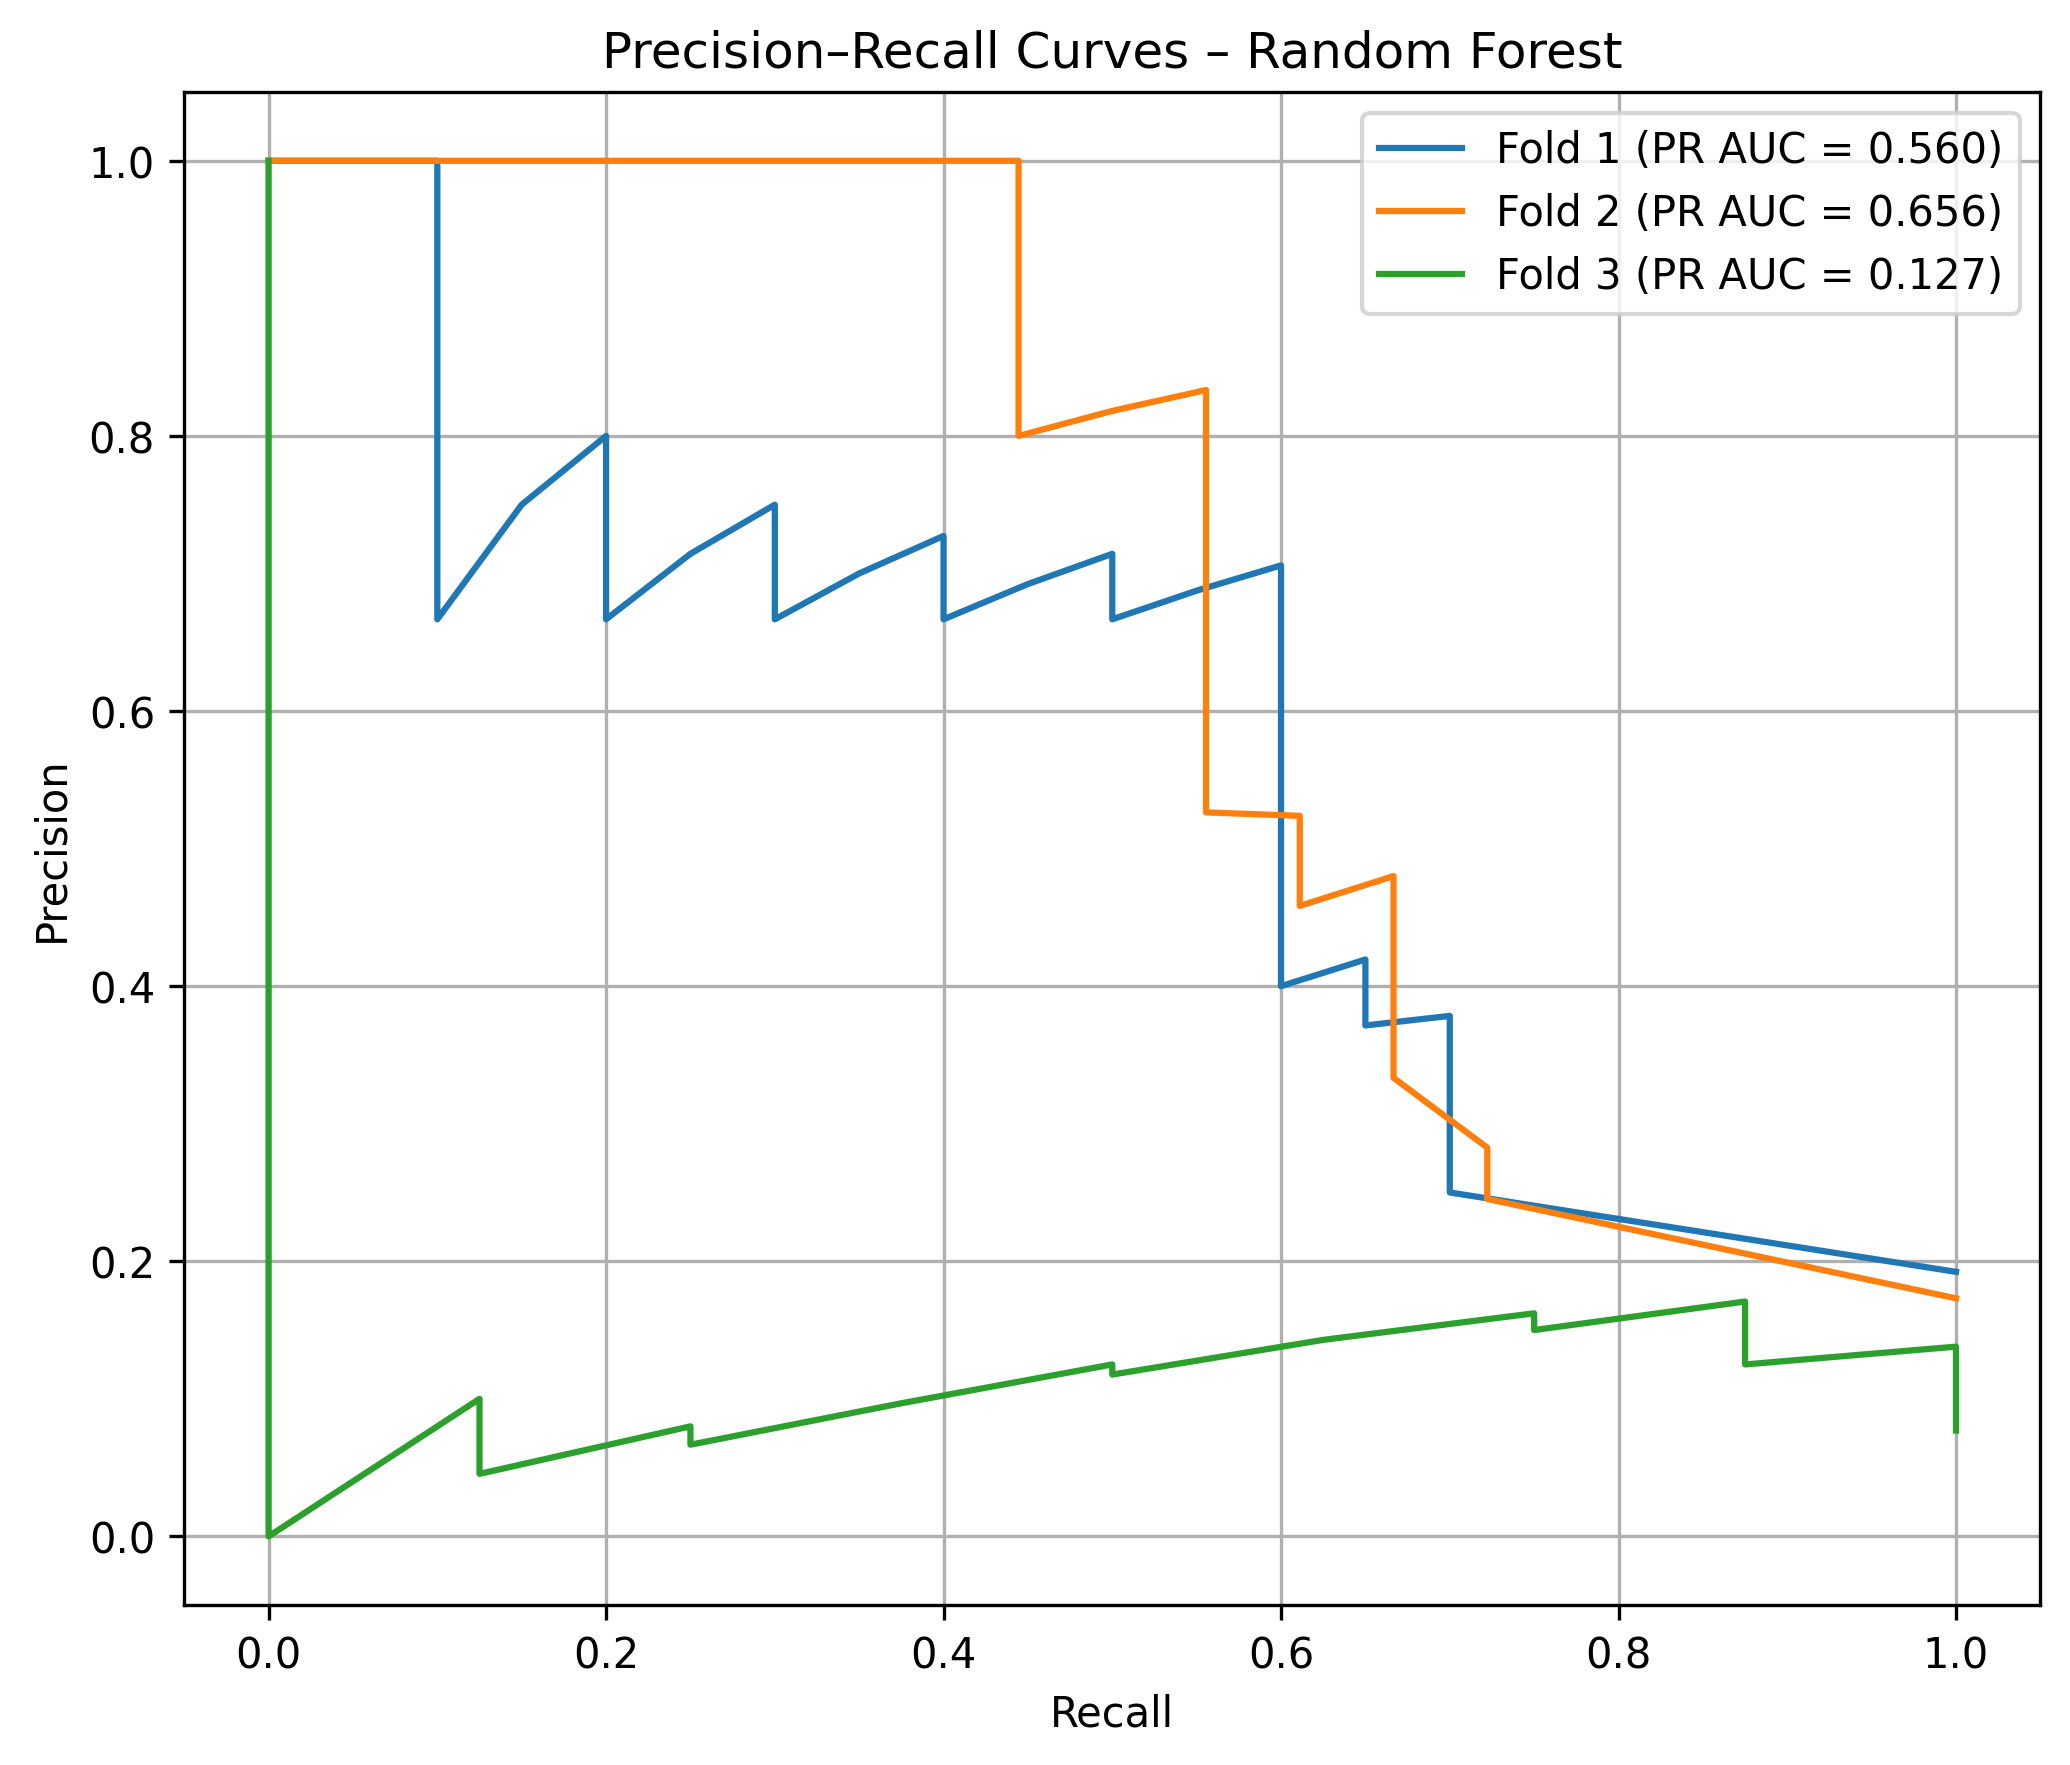
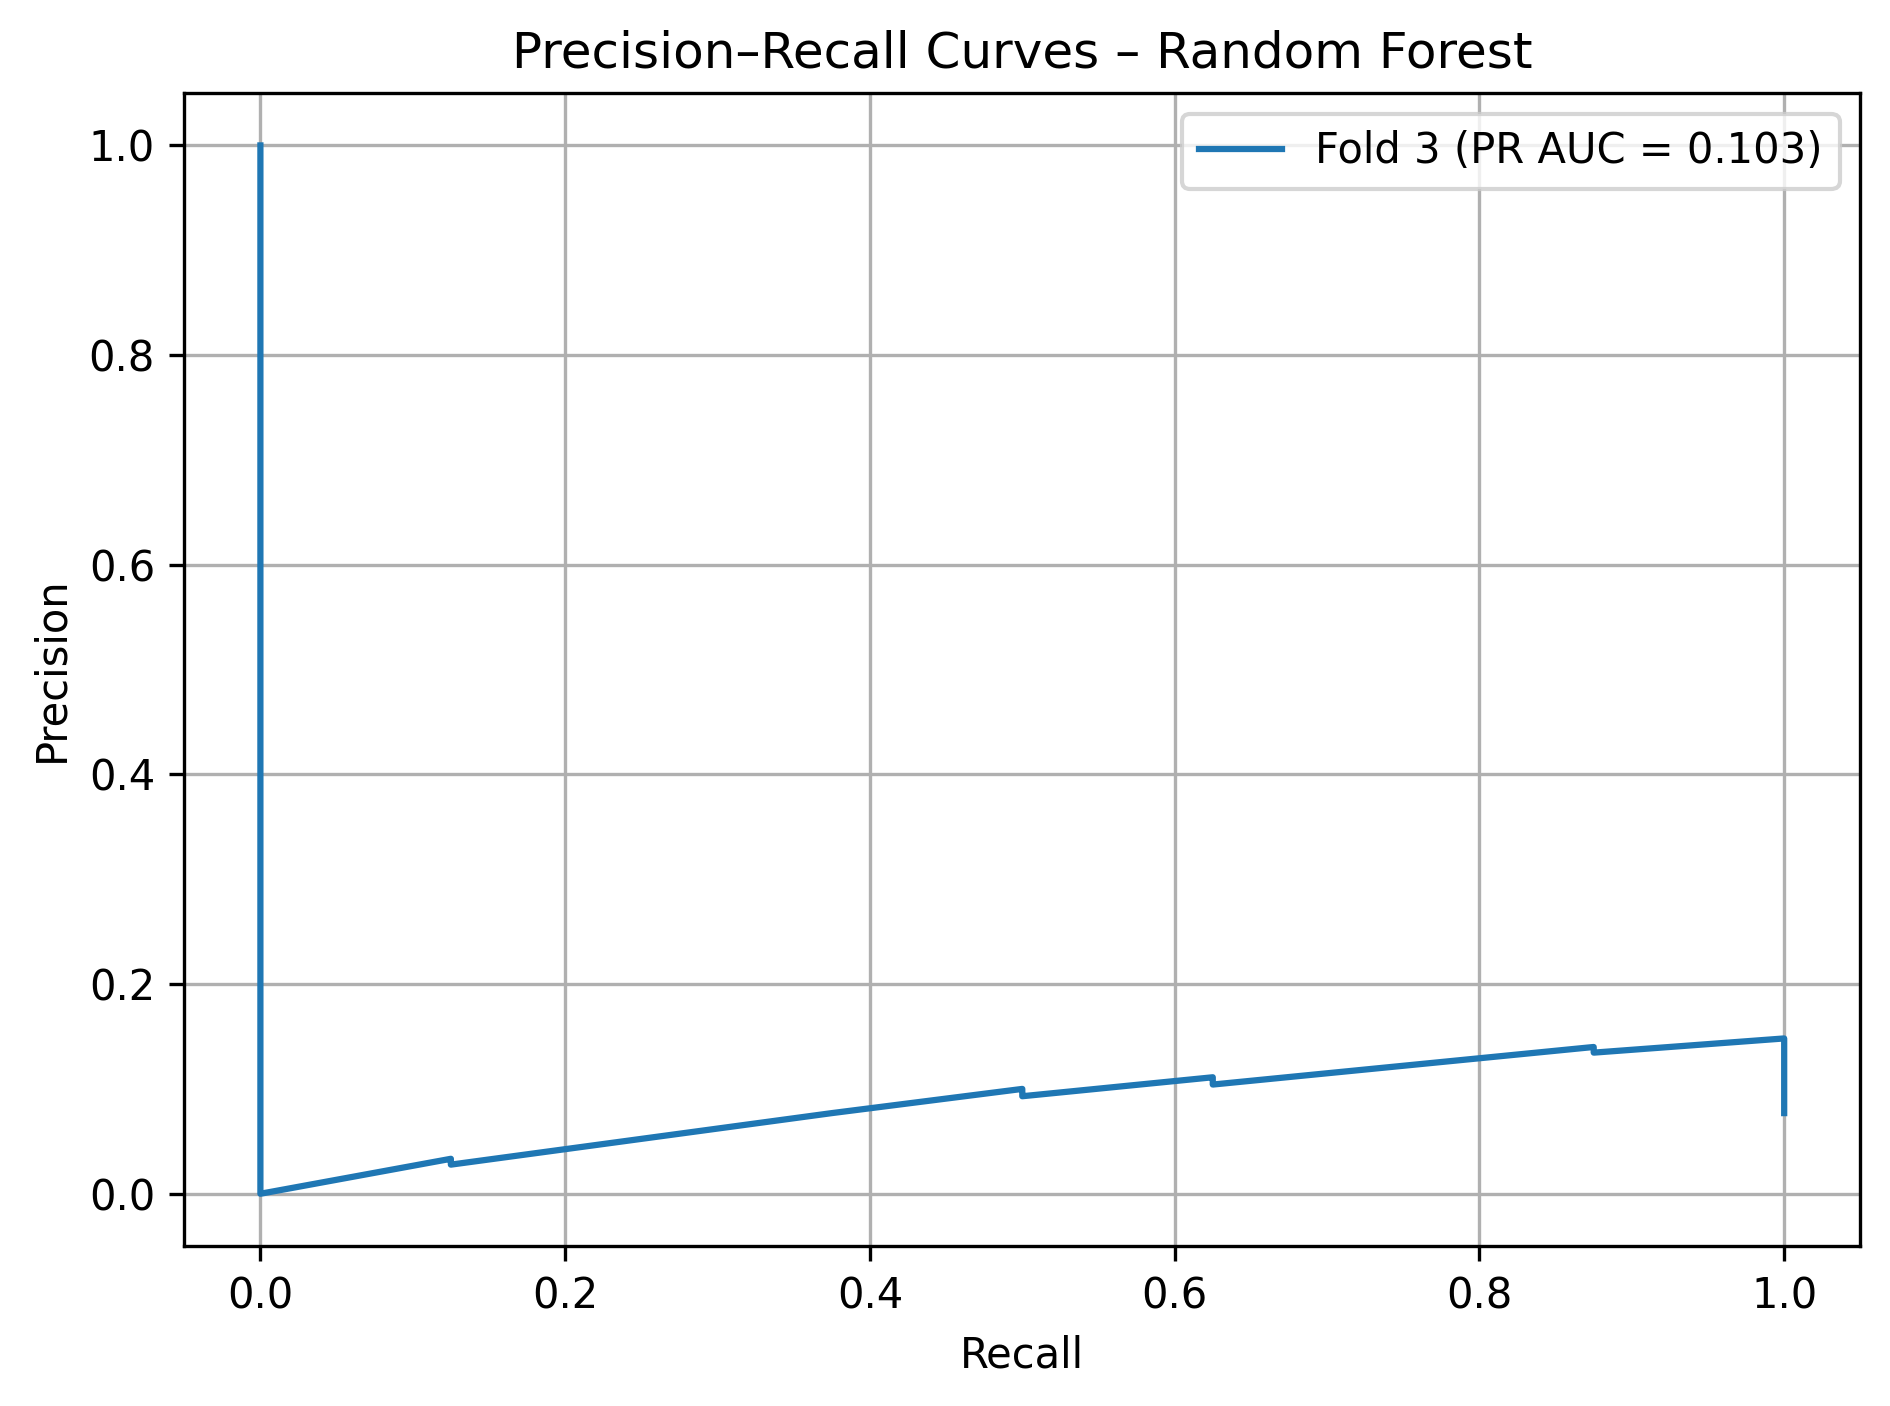
Changing SPF Comparison Calculation

Changed region(s): [[0.0, 0.0, 0.9989, 0.9481], [0.4995, 0.9481, 0.5931, 0.9787], [0.3746, 0.3364, 0.4058, 0.367]]

diff --git a/models.py b/models.py
@@ -19,11 +19,14 @@ print(df)
 
 data1 = df[['R_12-18M', 'T10Y2Y', 'T10Y3M', 'BaaSpread', 'PERatioS&P']].dropna()
 y = data1['R_12-18M']
-X = data1[['T10Y3M', 'PERatioS&P', 'BaaSpread']].copy()
+X = data1[['T10Y2Y']].copy()
+
+# SPF is quarterly (0/1) with NaNs in monthly data; align to the same index as data1
+spf = df.loc[data1.index, 'SPF']
 
 feature_cols = X.columns.tolist()
 X["Inverted"] = (X.iloc[:, 0] < 0).astype(int)
-threshold = 0.5
+threshold = 0.2
 
 ## ================================================== Cross Validation Functions ================================================== ##
 
@@ -95,6 +98,9 @@ clf = LogisticRegression(solver="liblinear", random_state=42)
 f1s, precs, recs, aucs, pr_aucs = [], [], [], [], []
 f1s_inv, precs_inv, recs_inv, aucs_inv, pr_aucs_inv = [], [], [], [], []
 
+# SPF per-fold precision (overall and when inverted), using only months where SPF is observed
+spf_precs, spf_precs_inv = [], []
+
 logit_y_all = []
 logit_preds_slope2 = []
 logit_preds_aug2 = []
@@ -125,6 +131,27 @@ for train_idx, test_idx in expanding_splits:
     pr_aucs.append(average_precision_score(y_te, proba))
 
     inv_mask = X_te["Inverted"] == 1
+
+    # ===== SPF on the same test fold (quarterly, with NaNs) =====
+    # Use only months where SPF is observed, both overall and when inverted.
+    spf_fold = spf.iloc[test_idx]              # 0/1 or NaN for this fold
+    mask_spf = spf_fold.notna()                # only months with SPF forecast
+
+    if mask_spf.sum() > 0:
+        y_spf = y_te[mask_spf]
+        spf_preds = spf_fold[mask_spf].astype(int)
+        spf_precs.append(precision_score(y_spf, spf_preds, zero_division=0))
+
+        inv_spf_mask = mask_spf & inv_mask
+        if inv_spf_mask.sum() > 0 and len(np.unique(y_te[inv_spf_mask])) == 2:
+            spf_precs_inv.append(
+                precision_score(y_te[inv_spf_mask],
+                                spf_fold[inv_spf_mask].astype(int),
+                                zero_division=0)
+            )
+
+    # ============================================================
+
     if inv_mask.sum() > 0 and len(np.unique(y_te[inv_mask])) == 2:
         f1s_inv.append(f1_score(y_te[inv_mask], preds[inv_mask], zero_division=0))
         precs_inv.append(precision_score(y_te[inv_mask], preds[inv_mask], zero_division=0))
@@ -425,14 +452,14 @@ def plot_per_model_pr_curves(all_y, all_proba, model_name, filename_prefix):
         prec_curve, rec_curve, _ = precision_recall_curve(y_fold, proba_fold)
         ap = average_precision_score(y_fold, proba_fold)
         plt.plot(rec_curve, prec_curve, label=f"Fold {fold_idx} (PR AUC = {ap:.3f})")
-    plt.xlabel("Recall")
-    plt.ylabel("Precision")
-    plt.title(f"Precision–Recall Curves – {model_name}")
-    plt.legend()
-    plt.grid(True)
-    plt.tight_layout()
-    plt.savefig(f"{filename_prefix}_pr_curves.png", dpi=300, bbox_inches="tight")
-    plt.close()
+        plt.xlabel("Recall")
+        plt.ylabel("Precision")
+        plt.title(f"Precision–Recall Curves – {model_name}")
+        plt.legend()
+        plt.grid(True)
+        plt.tight_layout()
+        plt.savefig(f"{filename_prefix}_pr_curves.png", dpi=300, bbox_inches="tight")
+        plt.close()
 
 plot_per_model_pr_curves(all_y_logit,  all_proba_logit,  "Logistic Regression", "logit")
 plot_per_model_pr_curves(all_y_probit, all_proba_probit, "Probit",              "probit")
@@ -470,28 +497,32 @@ plot_per_model_pr_curves(all_y_rf,     all_proba_rf,     "Random Forest",       
 
 ## ================================================== SPF Comparison ================================================== ##
 
-df_spf = pd.read_excel("Data.xlsx")
-spf_data = df_spf[['R_12-18M', 'SPF']].dropna()
-spf_precision = precision_score(spf_data['R_12-18M'], spf_data['SPF'], zero_division=0)
+spf_precs_arr = np.array(spf_precs)
 
-all_precisions = precs + probit_precs + gb_precs + rf_precs
-all_precisions_inv = precs_inv + probit_precs_inv + gb_precs_inv + rf_precs_inv
-model_avg_precision = np.mean(all_precisions)
-model_avg_precision_inv = np.mean(all_precisions_inv)
+logit_prec_mean   = float(np.mean(precs))
+logit_rec_mean    = float(np.mean(recs))
+probit_prec_mean  = float(np.mean(probit_precs))
+probit_rec_mean   = float(np.mean(probit_recs))
+gb_prec_mean      = float(np.mean(gb_precs))
+gb_rec_mean       = float(np.mean(gb_recs))
+rf_prec_mean      = float(np.mean(rf_precs))
+rf_rec_mean       = float(np.mean(rf_recs))
+spf_prec_mean     = float(np.mean(spf_precs_arr))
 
-print("\n======== SPF Comparison ========")
-print(f"\nPrecision Comparison:")
-print(f"SPF: {spf_precision:.3f}")
-print(f"Models (avg): {model_avg_precision:.3f}")
-print(f"Difference: {model_avg_precision - spf_precision:+.3f}")
+print("\n======== Average per-fold Precision & Recall (by model) ========")
+print(f"SPF (precision only): {spf_prec_mean:.3f}\n")
 
-print(f"\nPrecision Comparison (Inverted Yield Curve):")
-print(f"SPF: {spf_precision:.3f}")
-print(f"Models (avg): {model_avg_precision_inv:.3f}")
-print(f"Difference: {model_avg_precision_inv - spf_precision:+.3f}")
+print("Logistic Regression:  Precision = {:.3f}, Recall = {:.3f}".format(logit_prec_mean,  logit_rec_mean))
+print("Probit:               Precision = {:.3f}, Recall = {:.3f}".format(probit_prec_mean, probit_rec_mean))
+print("Gradient Boosting:    Precision = {:.3f}, Recall = {:.3f}".format(gb_prec_mean,     gb_rec_mean))
+print("Random Forest:        Precision = {:.3f}, Recall = {:.3f}".format(rf_prec_mean,     rf_rec_mean))
 
-t_stat, p_value = ttest_1samp(all_precisions, spf_precision, alternative='greater')
-print("Precision improvement significance (models > SPF): p =", p_value)
+print("\n======== SPF vs Models – Precision (average over folds) ========")
+print("SPF precision (avg per fold): {:.3f}".format(spf_prec_mean))
+print("Logit  precision − SPF: {:+.3f}".format(logit_prec_mean  - spf_prec_mean))
+print("Probit precision − SPF: {:+.3f}".format(probit_prec_mean - spf_prec_mean))
+print("GB     precision − SPF: {:+.3f}".format(gb_prec_mean     - spf_prec_mean))
+print("RF     precision − SPF: {:+.3f}".format(rf_prec_mean     - spf_prec_mean))
 
 ## ================================================== Per Fold Performance ================================================== ##
 
